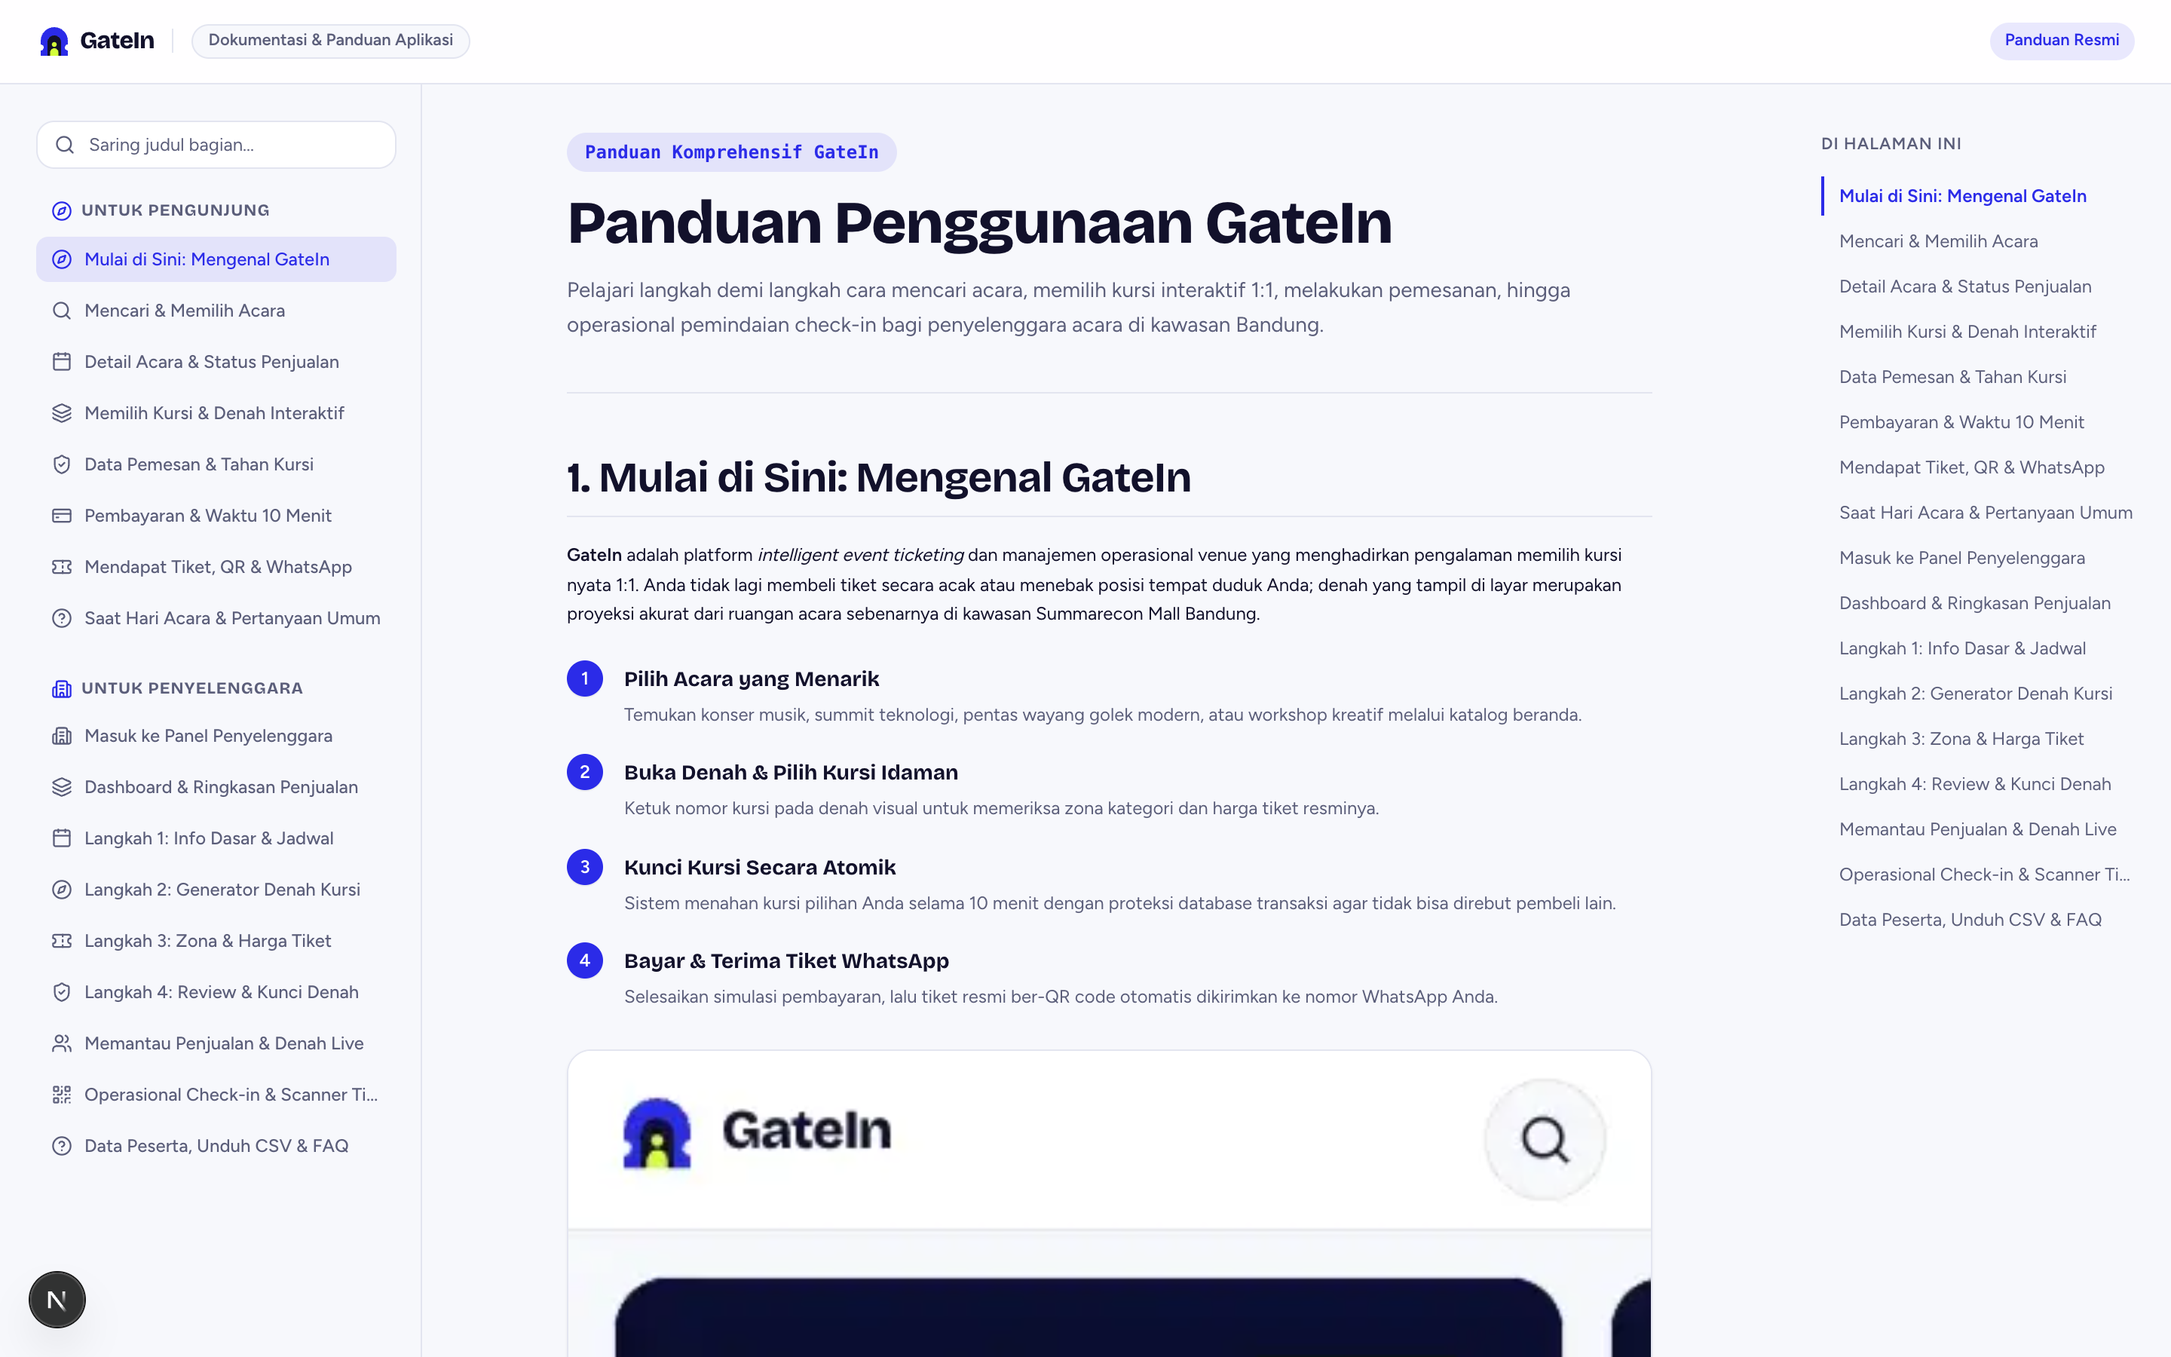
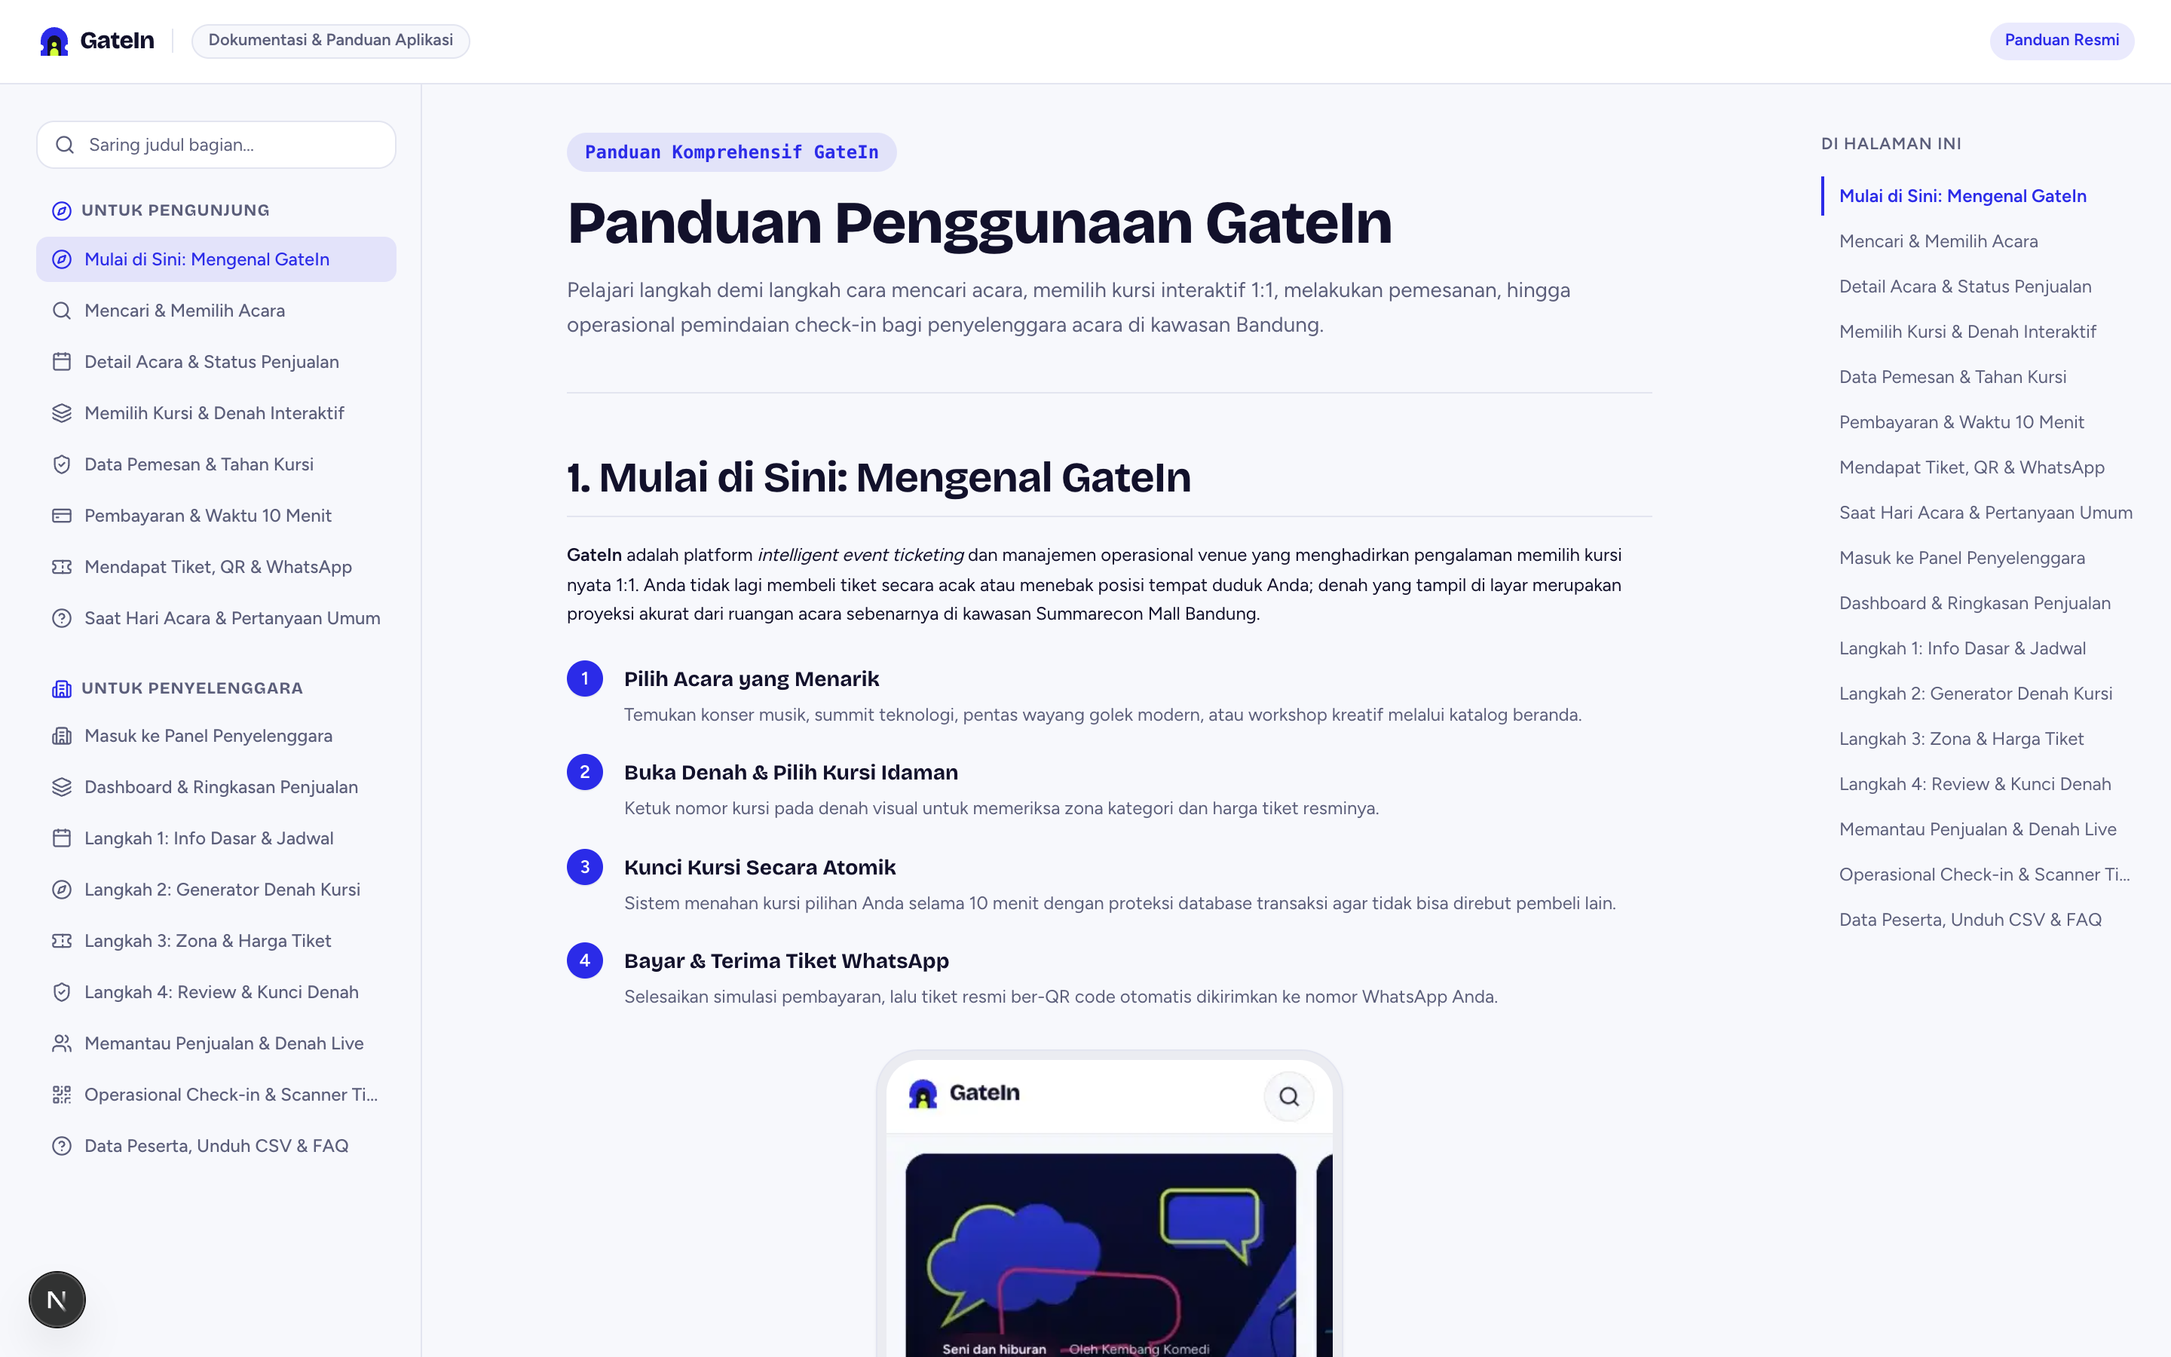
fix: perbaikan layout docs fixed scroll, resize gambar, error order discountAmount, dan himbauan no wa

Changed region(s): [[0.2812, 0.7778, 0.7812, 1.0], [0.6875, 0.8089, 0.7188, 0.8711]]

diff --git a/src/components/docs/DocsImage.tsx b/src/components/docs/DocsImage.tsx
@@ -11,6 +11,7 @@ interface DocsImageProps {
   priority?: boolean;
   width?: number;
   height?: number;
+  variant?: "mobile" | "desktop" | "auto";
 }
 
 export function DocsImage({
@@ -20,8 +21,14 @@ export function DocsImage({
   priority = false,
   width = 1200,
   height = 800,
+  variant = "auto",
 }: DocsImageProps) {
   const [isOpen, setIsOpen] = useState(false);
+
+  // Otomatis deteksi apakah ini tangkapan layar mobile HP atau desktop
+  const isMobile =
+    variant === "mobile" ||
+    (variant === "auto" && (src.includes("pengunjung") || src.includes("390")));
 
   useEffect(() => {
     if (!isOpen) return;
@@ -33,63 +40,89 @@ export function DocsImage({
   }, [isOpen]);
 
   return (
-    <figure className="my-6">
+    <figure className="my-6 flex flex-col items-center">
+      {/* Container Gambar yang Disesuaikan Ukurannya */}
       <div
-        onClick={() => setIsOpen(true)}
-        className="group relative cursor-zoom-in overflow-hidden rounded-2xl border border-line bg-card shadow-xs transition hover:border-gate/50 hover:shadow-md"
-        role="button"
-        tabIndex={0}
-        aria-label={`Perbesar gambar: ${caption}`}
-        onKeyDown={(e) => {
-          if (e.key === "Enter" || e.key === " ") {
-            e.preventDefault();
-            setIsOpen(true);
-          }
-        }}
+        className={`w-full ${
+          isMobile ? "max-w-[280px] sm:max-w-[310px]" : "max-w-[560px] sm:max-w-[620px]"
+        }`}
       >
-        <Image
-          src={src}
-          alt={alt}
-          width={width}
-          height={height}
-          priority={priority}
-          loading={priority ? undefined : "lazy"}
-          className="h-auto w-full object-cover transition-transform duration-200 group-hover:scale-[1.01]"
-        />
-        <div className="absolute right-3 bottom-3 flex items-center gap-1.5 rounded-full bg-ink/80 px-2.5 py-1 text-[11px] font-medium text-white backdrop-blur-xs opacity-0 transition-opacity group-hover:opacity-100">
-          <Maximize2 className="h-3 w-3" />
-          <span>Klik perbesar</span>
-        </div>
-      </div>
-      <figcaption className="mt-2 text-center text-xs font-medium text-muted">
-        {caption}
-      </figcaption>
+        <div
+          onClick={() => setIsOpen(true)}
+          className={`group relative cursor-zoom-in overflow-hidden border border-line bg-card shadow-xs transition hover:border-gate/60 hover:shadow-md ${
+            isMobile ? "rounded-[28px] p-1.5 bg-ink/5" : "rounded-2xl"
+          }`}
+          role="button"
+          tabIndex={0}
+          aria-label={`Perbesar gambar: ${caption}`}
+          onKeyDown={(e) => {
+            if (e.key === "Enter" || e.key === " ") {
+              e.preventDefault();
+              setIsOpen(true);
+            }
+          }}
+        >
+          {/* Header Bingkai Mockup Desktop */}
+          {!isMobile && (
+            <div className="flex items-center gap-1.5 border-b border-line bg-page/80 px-3 py-1.5">
+              <span className="h-2 w-2 rounded-full bg-rose-400" />
+              <span className="h-2 w-2 rounded-full bg-amber-400" />
+              <span className="h-2 w-2 rounded-full bg-emerald-400" />
+              <span className="ml-2 font-mono text-[10px] text-muted truncate">
+                app.gatein.id
+              </span>
+            </div>
+          )}
 
-      {/* Modal Zoom Lightbox */}
+          <div className={`overflow-hidden ${isMobile ? "rounded-[22px]" : ""}`}>
+            <Image
+              src={src}
+              alt={alt}
+              width={isMobile ? 390 : width}
+              height={isMobile ? 844 : height}
+              priority={priority}
+              loading={priority ? undefined : "lazy"}
+              className="h-auto w-full object-cover transition-transform duration-200 group-hover:scale-[1.01]"
+            />
+          </div>
+
+          {/* Badge Petunjuk Zoom */}
+          <div className="absolute right-3 bottom-3 flex items-center gap-1.5 rounded-full bg-ink/80 px-2.5 py-1 text-[11px] font-medium text-white backdrop-blur-xs opacity-0 transition-opacity group-hover:opacity-100">
+            <Maximize2 className="h-3 w-3" />
+            <span>Klik perbesar</span>
+          </div>
+        </div>
+
+        <figcaption className="mt-2 text-center text-xs font-medium text-muted">
+          {caption}
+        </figcaption>
+      </div>
+
+      {/* Modal Zoom Lightbox Resolusi Penuh */}
       {isOpen && (
         <div
           role="dialog"
           aria-modal="true"
           aria-label={caption}
-          className="fixed inset-0 z-50 flex items-center justify-center bg-ink/80 p-4 backdrop-blur-sm transition-opacity animate-in fade-in duration-150"
+          className="fixed inset-0 z-50 flex items-center justify-center bg-ink/85 p-4 backdrop-blur-sm transition-opacity"
           onClick={() => setIsOpen(false)}
         >
           <div
-            className="relative max-h-[90vh] max-w-5xl overflow-hidden rounded-2xl border border-line/40 bg-card p-2 shadow-2xl"
+            className="relative max-h-[92vh] max-w-5xl overflow-hidden rounded-2xl border border-line/40 bg-card p-2 shadow-2xl"
             onClick={(e) => e.stopPropagation()}
           >
             <div className="flex items-center justify-between border-b border-line px-3 py-2 text-xs font-medium text-ink">
-              <span className="truncate pr-4">{caption}</span>
+              <span className="truncate pr-4 font-bold">{caption}</span>
               <button
                 type="button"
                 onClick={() => setIsOpen(false)}
-                className="rounded-full p-1 text-muted hover:bg-page hover:text-ink"
+                className="rounded-full p-1 text-muted hover:bg-page hover:text-ink transition"
                 aria-label="Tutup pratinjau gambar"
               >
-                <X className="h-4 w-4" />
+                <X className="h-5 w-5" />
               </button>
             </div>
-            <div className="max-h-[80vh] overflow-auto p-2">
+            <div className="max-h-[82vh] overflow-auto p-2">
               <Image
                 src={src}
                 alt={alt}

diff --git a/src/app/docs/DocsClient.tsx b/src/app/docs/DocsClient.tsx
@@ -1,6 +1,6 @@
 "use client";
 
-import React, { useState, useEffect, useMemo, useCallback } from "react";
+import React, { useState, useEffect, useMemo, useCallback, useRef } from "react";
 import Link from "next/link";
 import {
   Search,
@@ -59,6 +59,7 @@ export function DocsClient() {
   const [activeSectionId, setActiveSectionId] = useState<string>("pengunjung-mulai");
   const [mobileMenuOpen, setMobileMenuOpen] = useState(false);
   const [copiedId, setCopiedId] = useState<string | null>(null);
+  const contentContainerRef = useRef<HTMLElement>(null);
 
   // Filter bagian navigasi berdasarkan kata kunci
   const filteredSections = useMemo(() => {
@@ -67,13 +68,15 @@ export function DocsClient() {
     return SECTIONS.filter((s) => s.title.toLowerCase().includes(q));
   }, [filterQuery]);
 
-  // Scroll spy menggunakan IntersectionObserver
+  // Scroll spy menggunakan IntersectionObserver pada kontainer utama yang di-scroll
   useEffect(() => {
+    const container = contentContainerRef.current;
+    if (!container) return;
+
     const observer = new IntersectionObserver(
       (entries) => {
         const visibleEntries = entries.filter((e) => e.isIntersecting);
         if (visibleEntries.length > 0) {
-          // Ambil elemen paling atas yang terlihat
           const topVisible = visibleEntries.reduce((prev, curr) =>
             prev.boundingClientRect.top < curr.boundingClientRect.top ? prev : curr
           );
@@ -81,7 +84,8 @@ export function DocsClient() {
         }
       },
       {
-        rootMargin: "-80px 0px -60% 0px",
+        root: container,
+        rootMargin: "-20px 0px -60% 0px",
         threshold: 0,
       }
     );
@@ -103,17 +107,17 @@ export function DocsClient() {
     });
   }, []);
 
-  // Navigasi halus dengan preferensi reduced motion
+  // Navigasi halus dengan preferensi reduced motion pada kontainer yang di-scroll
   const scrollToSection = useCallback((id: string) => {
     const el = document.getElementById(id);
-    if (!el) return;
+    const container = contentContainerRef.current;
+    if (!el || !container) return;
 
     const prefersReducedMotion = window.matchMedia("(prefers-reduced-motion: reduce)").matches;
-    const yOffset = -80;
-    const y = el.getBoundingClientRect().top + window.pageYOffset + yOffset;
+    const targetTop = el.offsetTop - 16;
 
-    window.scrollTo({
-      top: y,
+    container.scrollTo({
+      top: targetTop,
       behavior: prefersReducedMotion ? "auto" : "smooth",
     });
 
@@ -121,9 +125,9 @@ export function DocsClient() {
   }, []);
 
   return (
-    <div className="min-h-screen bg-page text-ink selection:bg-gate/20">
-      {/* 1. Header Bilah Atas Tipis */}
-      <header className="sticky top-0 z-40 flex h-14 w-full items-center justify-between border-b border-line bg-card/90 px-4 backdrop-blur-md sm:px-6">
+    <div className="h-screen flex flex-col overflow-hidden bg-page text-ink selection:bg-gate/20">
+      {/* 1. Header Bilah Atas Tipis (Fixed) */}
+      <header className="shrink-0 flex h-14 w-full items-center justify-between border-b border-line bg-card/95 px-4 backdrop-blur-md sm:px-6 z-40">
         <div className="flex items-center gap-3">
           <Link href="/" className="flex items-center gap-2 group transition" title="Kembali ke Beranda">
             <Logo size="sm" />
@@ -150,10 +154,10 @@ export function DocsClient() {
         </div>
       </header>
 
-      {/* 2. Container Layout 3 Kolom */}
-      <div className="mx-auto flex max-w-[1440px] px-4 sm:px-6">
-        {/* Kolom Kiri: Sidebar Navigasi Desktop */}
-        <aside className="sticky top-14 hidden h-[calc(100vh-3.5rem)] w-64 shrink-0 overflow-y-auto border-r border-line py-6 pr-4 lg:block">
+      {/* 2. Container Layout 3 Kolom: Sidebar Kiri & Kanan Fixed, Hanya Konten Tengah yang Scroll */}
+      <div className="mx-auto flex h-[calc(100vh-3.5rem)] w-full max-w-[1440px] px-4 sm:px-6 overflow-hidden">
+        {/* Kolom Kiri: Sidebar Navigasi Desktop (FIXED in place) */}
+        <aside className="hidden h-full w-64 shrink-0 overflow-y-auto border-r border-line py-6 pr-4 lg:block">
           {/* Filter Pencarian Subjudul */}
           <div className="relative mb-5">
             <Search className="pointer-events-none absolute left-3 top-1/2 h-3.5 w-3.5 -translate-y-1/2 text-muted" />
@@ -242,8 +246,12 @@ export function DocsClient() {
           </nav>
         </aside>
 
-        {/* Kolom Tengah: Konten Dokumentasi (Maksimal ~720px) */}
-        <main className="min-w-0 flex-1 px-0 py-8 lg:px-10">
+        {/* Kolom Tengah: Konten Dokumentasi (Hanya bagian ini yang di-scroll) */}
+        <main
+          ref={contentContainerRef}
+          id="docs-content-container"
+          className="h-full min-w-0 flex-1 overflow-y-auto px-0 py-8 lg:px-10 scroll-smooth"
+        >
           <div className="mx-auto max-w-[720px]">
             {/* Header Pengantar */}
             <div className="mb-10 pb-8 border-b border-line">
@@ -1131,8 +1139,8 @@ export function DocsClient() {
           </div>
         </main>
 
-        {/* Kolom Kanan: "Di halaman ini" Table of Contents Desktop */}
-        <aside className="sticky top-14 hidden h-[calc(100vh-3.5rem)] w-56 shrink-0 overflow-y-auto py-8 pl-4 xl:block">
+        {/* Kolom Kanan: "Di halaman ini" Table of Contents Desktop (FIXED in place) */}
+        <aside className="hidden h-full w-56 shrink-0 overflow-y-auto py-8 pl-4 xl:block">
           <div className="text-[11px] font-bold uppercase tracking-wider text-muted">
             Di Halaman Ini
           </div>

diff --git a/src/components/seatmap/CheckoutDrawer.tsx b/src/components/seatmap/CheckoutDrawer.tsx
@@ -363,12 +363,17 @@ export function CheckoutDrawer({
               </div>
 
               <div>
-                <label
-                  htmlFor="checkout-buyer-phone"
-                  className="block text-xs font-semibold text-ink"
-                >
-                  Nomor WhatsApp aktif
-                </label>
+                <div className="flex items-center justify-between">
+                  <label
+                    htmlFor="checkout-buyer-phone"
+                    className="block text-xs font-semibold text-ink"
+                  >
+                    Nomor WhatsApp aktif
+                  </label>
+                  <span className="text-[11px] font-bold text-gate">
+                    Format: 08xxx (tanpa spasi)
+                  </span>
+                </div>
                 <div className="relative mt-1.5">
                   <div className="pointer-events-none absolute inset-y-0 left-0 flex items-center pl-3 text-muted">
                     <Phone className="h-4 w-4" />
@@ -381,15 +386,21 @@ export function CheckoutDrawer({
                     autoComplete="tel"
                     required
                     disabled={isSubmitting}
-                    placeholder="Contoh: 082275338090"
+                    placeholder="Contoh: 081212341224 (tanpa spasi)"
                     value={buyerPhone}
-                    onChange={(e) => onBuyerPhoneChange(e.target.value)}
+                    onChange={(e) => onBuyerPhoneChange(e.target.value.replace(/[\s\-]/g, ""))}
                     className="min-h-11 w-full rounded-input border border-line bg-card pl-9.5 pr-3.5 py-2.5 text-sm text-ink placeholder:text-muted focus:border-gate focus:outline-none disabled:opacity-60"
                   />
                 </div>
-                <p className="mt-1 text-[11px] text-muted">
-                  E-ticket dan QR code akan otomatis dikirimkan ke nomor WhatsApp ini.
-                </p>
+                <div className="mt-1.5 rounded-lg border border-amber-300 bg-amber-50/90 p-2 text-[11px] text-amber-950">
+                  <p className="font-semibold flex items-center gap-1">
+                    <span>⚠</span>
+                    <span>Wajib diawali <strong>08xx</strong> dan ditulis <strong>tanpa spasi</strong> (contoh: <code>081212341224</code>, bukan <code>0812 1234 1224</code>).</span>
+                  </p>
+                  <p className="mt-0.5 text-[10px] text-amber-900/90">
+                    E-ticket dan QR code akan otomatis dikirimkan ke nomor WhatsApp ini setelah pembayaran.
+                  </p>
+                </div>
               </div>
             </div>
 

diff --git a/src/lib/seats.ts b/src/lib/seats.ts
@@ -139,21 +139,26 @@ export async function holdSeatsAndCreateOrder(
         appliedPromoCode = validation.promo.code;
       }
 
+      const orderData: Record<string, unknown> = {
+        id: orderId,
+        eventId: input.eventId,
+        buyerName: input.buyerName,
+        buyerPhone: input.buyerPhone,
+        status: "PENDING",
+        totalAmount: finalTotal,
+        holdToken,
+        holdExpiresAt,
+      };
+
+      if (appliedPromoId && discountAmount > 0) {
+        orderData.originalAmount = originalAmount;
+        orderData.discountAmount = discountAmount;
+        orderData.promoId = appliedPromoId;
+        orderData.promoCode = appliedPromoCode;
+      }
+
       await tx.order.create({
-        data: {
-          id: orderId,
-          eventId: input.eventId,
-          buyerName: input.buyerName,
-          buyerPhone: input.buyerPhone,
-          status: "PENDING",
-          totalAmount: finalTotal,
-          originalAmount,
-          discountAmount,
-          promoId: appliedPromoId,
-          promoCode: appliedPromoCode,
-          holdToken,
-          holdExpiresAt,
-        },
+        data: orderData as Parameters<typeof tx.order.create>[0]["data"],
       });
 
       // Reservasi penggunaan kuota promo

diff --git a/src/app/(public)/e/[slug]/beli/BookingFlowClient.tsx b/src/app/(public)/e/[slug]/beli/BookingFlowClient.tsx
@@ -185,7 +185,7 @@ export function BookingFlowClient({
     const phone62 = normalizePhoneTo62(buyerPhoneRaw);
     if (!phone62) {
       setFormError(
-        "Nomor WhatsApp tidak valid. Gunakan format 08xxxxxxxxxx atau 628xxxxxxxxxx (10–15 digit)."
+        "Nomor WhatsApp wajib diawali 08xx dan ditulis tanpa spasi (contoh: 081212341224, 10–15 digit)."
       );
       return;
     }
